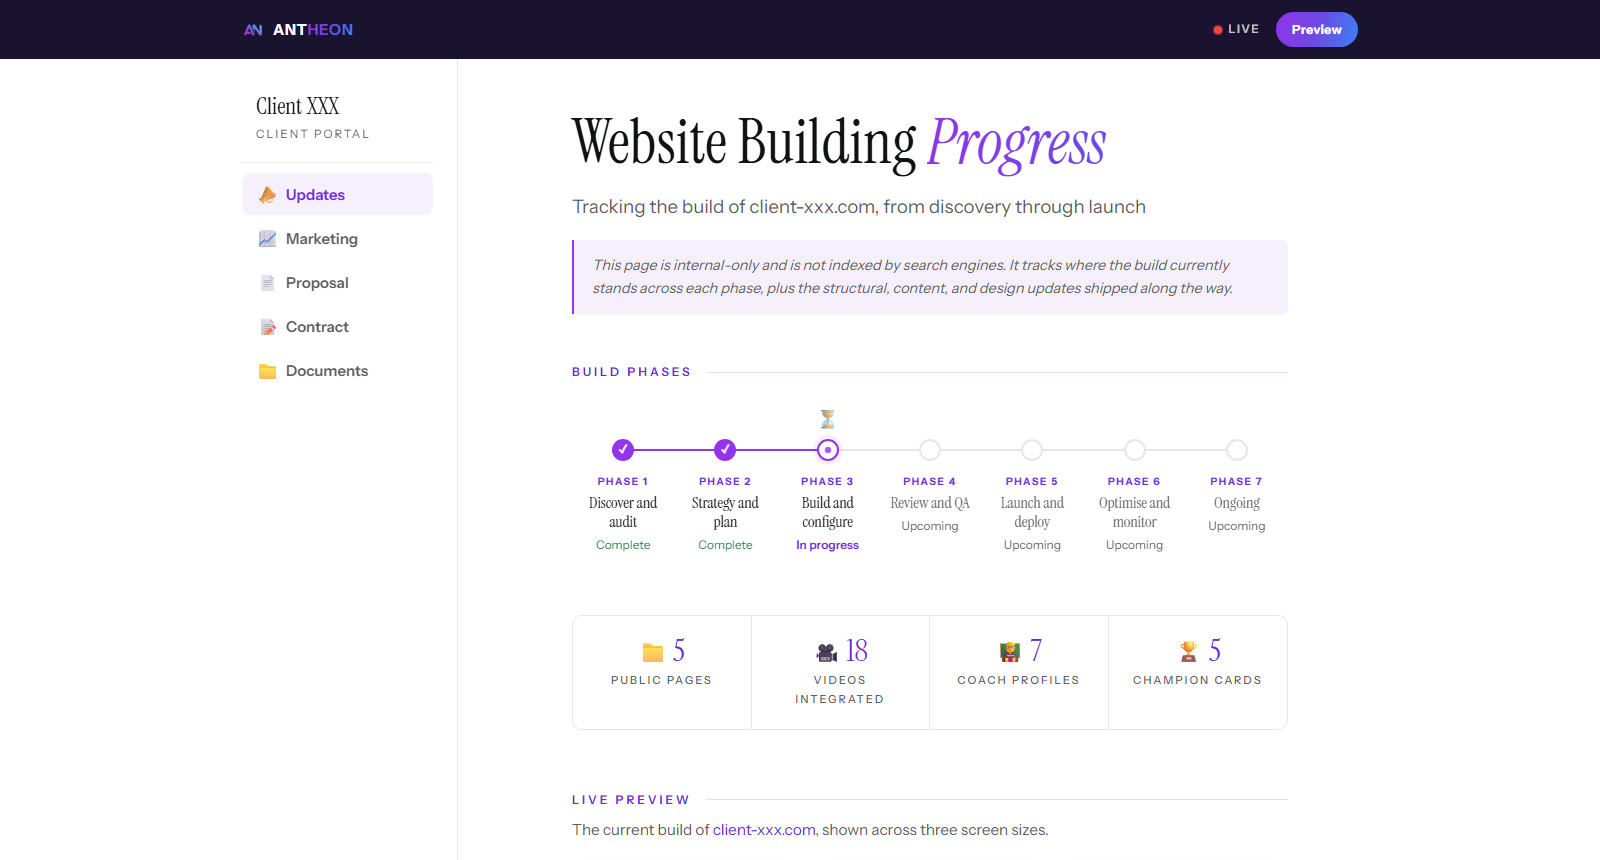
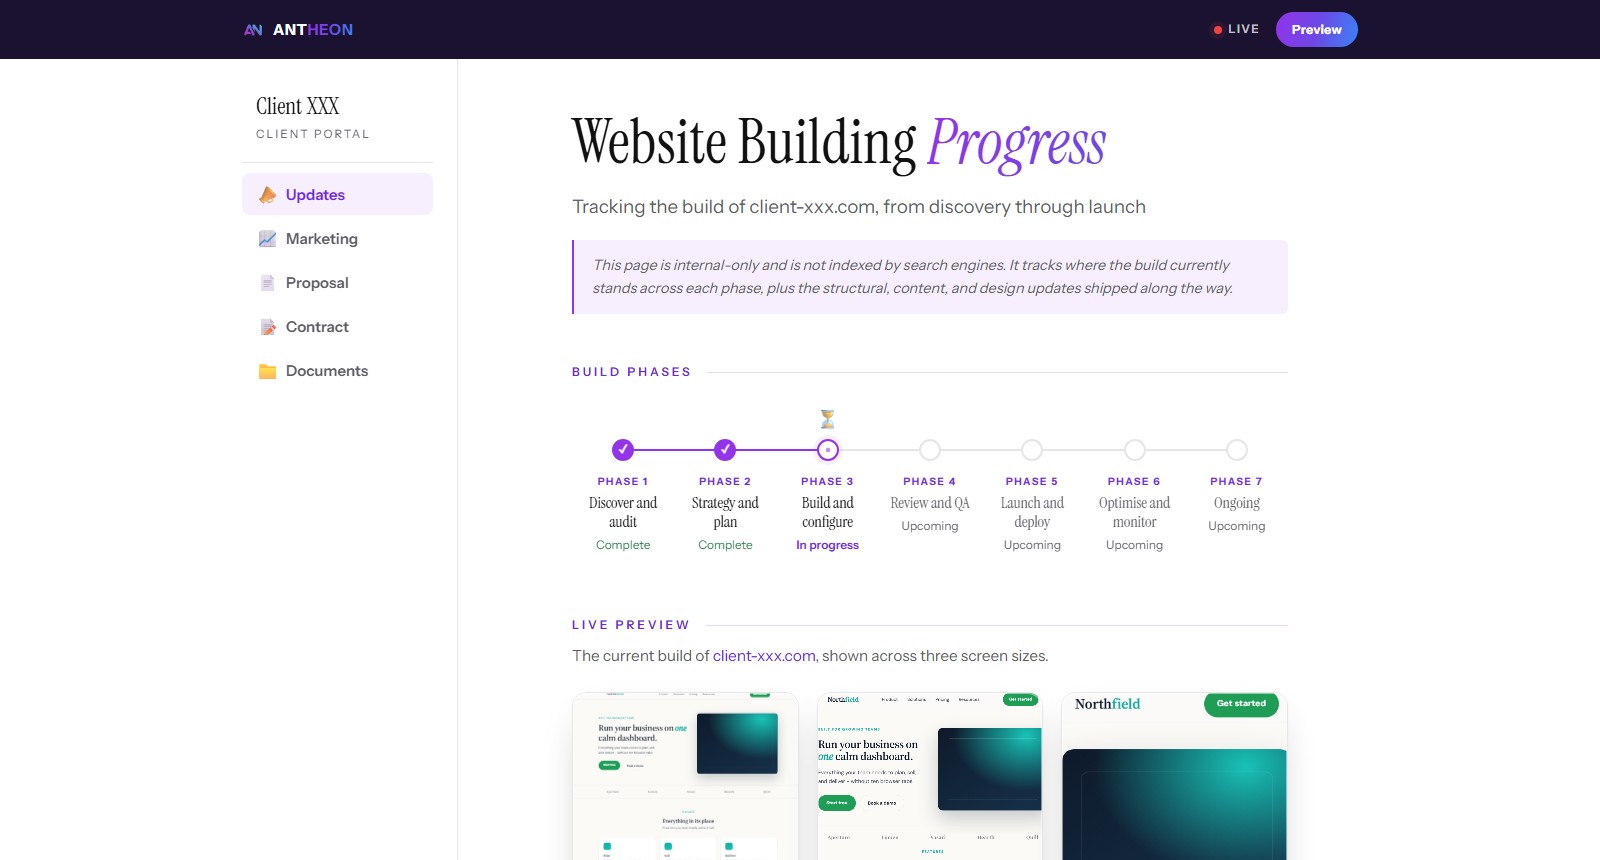
dash

diff --git a/dashboard/index.html b/dashboard/index.html
@@ -128,20 +128,6 @@ a:hover{color:var(--gold)}
 .subtitle{font-family:var(--font-body);font-size:1.1rem;color:var(--t-muted);margin-bottom:18px;line-height:1.6}
 .note{font-family:var(--font-body);font-size:.85rem;color:var(--t-muted);font-style:italic;margin-bottom:48px;line-height:1.6;padding:14px 18px;border-left:2px solid var(--gold);background:var(--t-gold-bg);border-radius:0 6px 6px 0}
 
-/* Stats strip */
-.stats{display:grid;grid-template-columns:repeat(4,1fr);gap:0;margin-bottom:60px;background:var(--t-card);border:1px solid var(--t-border);border-radius:10px;overflow:hidden}
-.stat{padding:20px 16px;text-align:center;border-right:1px solid var(--t-border)}
-.stat:last-child{border-right:none}
-.stat-num{font-family:var(--font-display);font-size:1.8rem;font-weight:400;color:var(--gold-dim);line-height:1;margin-bottom:4px;display:flex;align-items:center;justify-content:center;gap:6px}
-.stat-num span.icon{font-size:1.2rem}
-.stat-label{font-family:var(--font-body);font-size:.65rem;letter-spacing:2px;text-transform:uppercase;color:var(--t-muted);font-weight:500}
-@media(max-width:640px){
-  .stats{grid-template-columns:1fr 1fr}
-  .stat{border-right:none;border-bottom:1px solid var(--t-border)}
-  .stat:nth-child(2n){border-right:none}
-  .stat:nth-child(odd){border-right:1px solid var(--t-border)}
-  .stat:nth-last-child(-n+2){border-bottom:none}
-}
 
 /* Build phases — vertical timeline */
 .phases{margin-bottom:60px}
@@ -425,13 +411,6 @@ a:hover{color:var(--gold)}
     </ol>
   </section>
 
-  <div class="stats">
-    <div class="stat"><div class="stat-num"><span class="icon">&#128193;</span>5</div><div class="stat-label">Public Pages</div></div>
-    <div class="stat"><div class="stat-num"><span class="icon">&#127909;</span>18</div><div class="stat-label">Videos Integrated</div></div>
-    <div class="stat"><div class="stat-num"><span class="icon">&#129489;&#8205;&#127979;</span>7</div><div class="stat-label">Coach Profiles</div></div>
-    <div class="stat"><div class="stat-num"><span class="icon">&#127942;</span>5</div><div class="stat-label">Champion Cards</div></div>
-  </div>
-
   <section class="previews" aria-label="Live preview of the website">
     <div class="previews-label">Live preview</div>
     <p class="previews-sub">The current build of <a href="sample.html" target="_blank" rel="noopener">client-xxx.com</a>, shown across three screen sizes.</p>
@@ -560,21 +539,21 @@ a:hover{color:var(--gold)}
     <h2 class="panel-heading">Documents</h2>
     <p class="panel-sub">Reference material and reports related to your website build.</p>
     <div class="docs-menu-grid">
-      <a href="/new-site/seo-report/" class="docs-card">
-        <div class="docs-card-icon">&#128214;</div>
+      <a href="/new-site/accessibility-audit/" class="docs-card">
+        <div class="docs-card-icon">&#9855;&#65039;</div>
         <div class="docs-card-body">
-          <div class="docs-card-eyebrow">Standing implementation report</div>
-          <div class="docs-card-title">SEO, AEO, GEO report</div>
-          <div class="docs-card-desc">What we did across search, answer, and generative engines on the rebuild, and why each choice was made. Updated when material work ships.</div>
+          <div class="docs-card-eyebrow">Compliance check</div>
+          <div class="docs-card-title">Accessibility audit, WCAG 2.2 AA</div>
+          <div class="docs-card-desc">Every page tested for screen reader support, colour contrast, and keyboard navigation, with fixes tracked against the WCAG 2.2 AA checklist.</div>
         </div>
         <span class="docs-card-cta">Open &rsaquo;</span>
       </a>
-      <a href="/new-site/redirect-plan/" class="docs-card">
-        <div class="docs-card-icon">&#128279;</div>
+      <a href="/new-site/analytics-setup/" class="docs-card">
+        <div class="docs-card-icon">&#128202;</div>
         <div class="docs-card-body">
-          <div class="docs-card-eyebrow">Transition plan</div>
-          <div class="docs-card-title">301 redirect plan, legacy to new site</div>
-          <div class="docs-card-desc">Every legacy WordPress URL on the primary domain mapped to its new destination, ahead of the production cutover.</div>
+          <div class="docs-card-eyebrow">Tracking &amp; reporting</div>
+          <div class="docs-card-title">Analytics and event tracking setup</div>
+          <div class="docs-card-desc">Every booking, enquiry, and video play wired into GA4 and the ad pixels, with a full reference of what each event means.</div>
         </div>
         <span class="docs-card-cta">Open &rsaquo;</span>
       </a>
